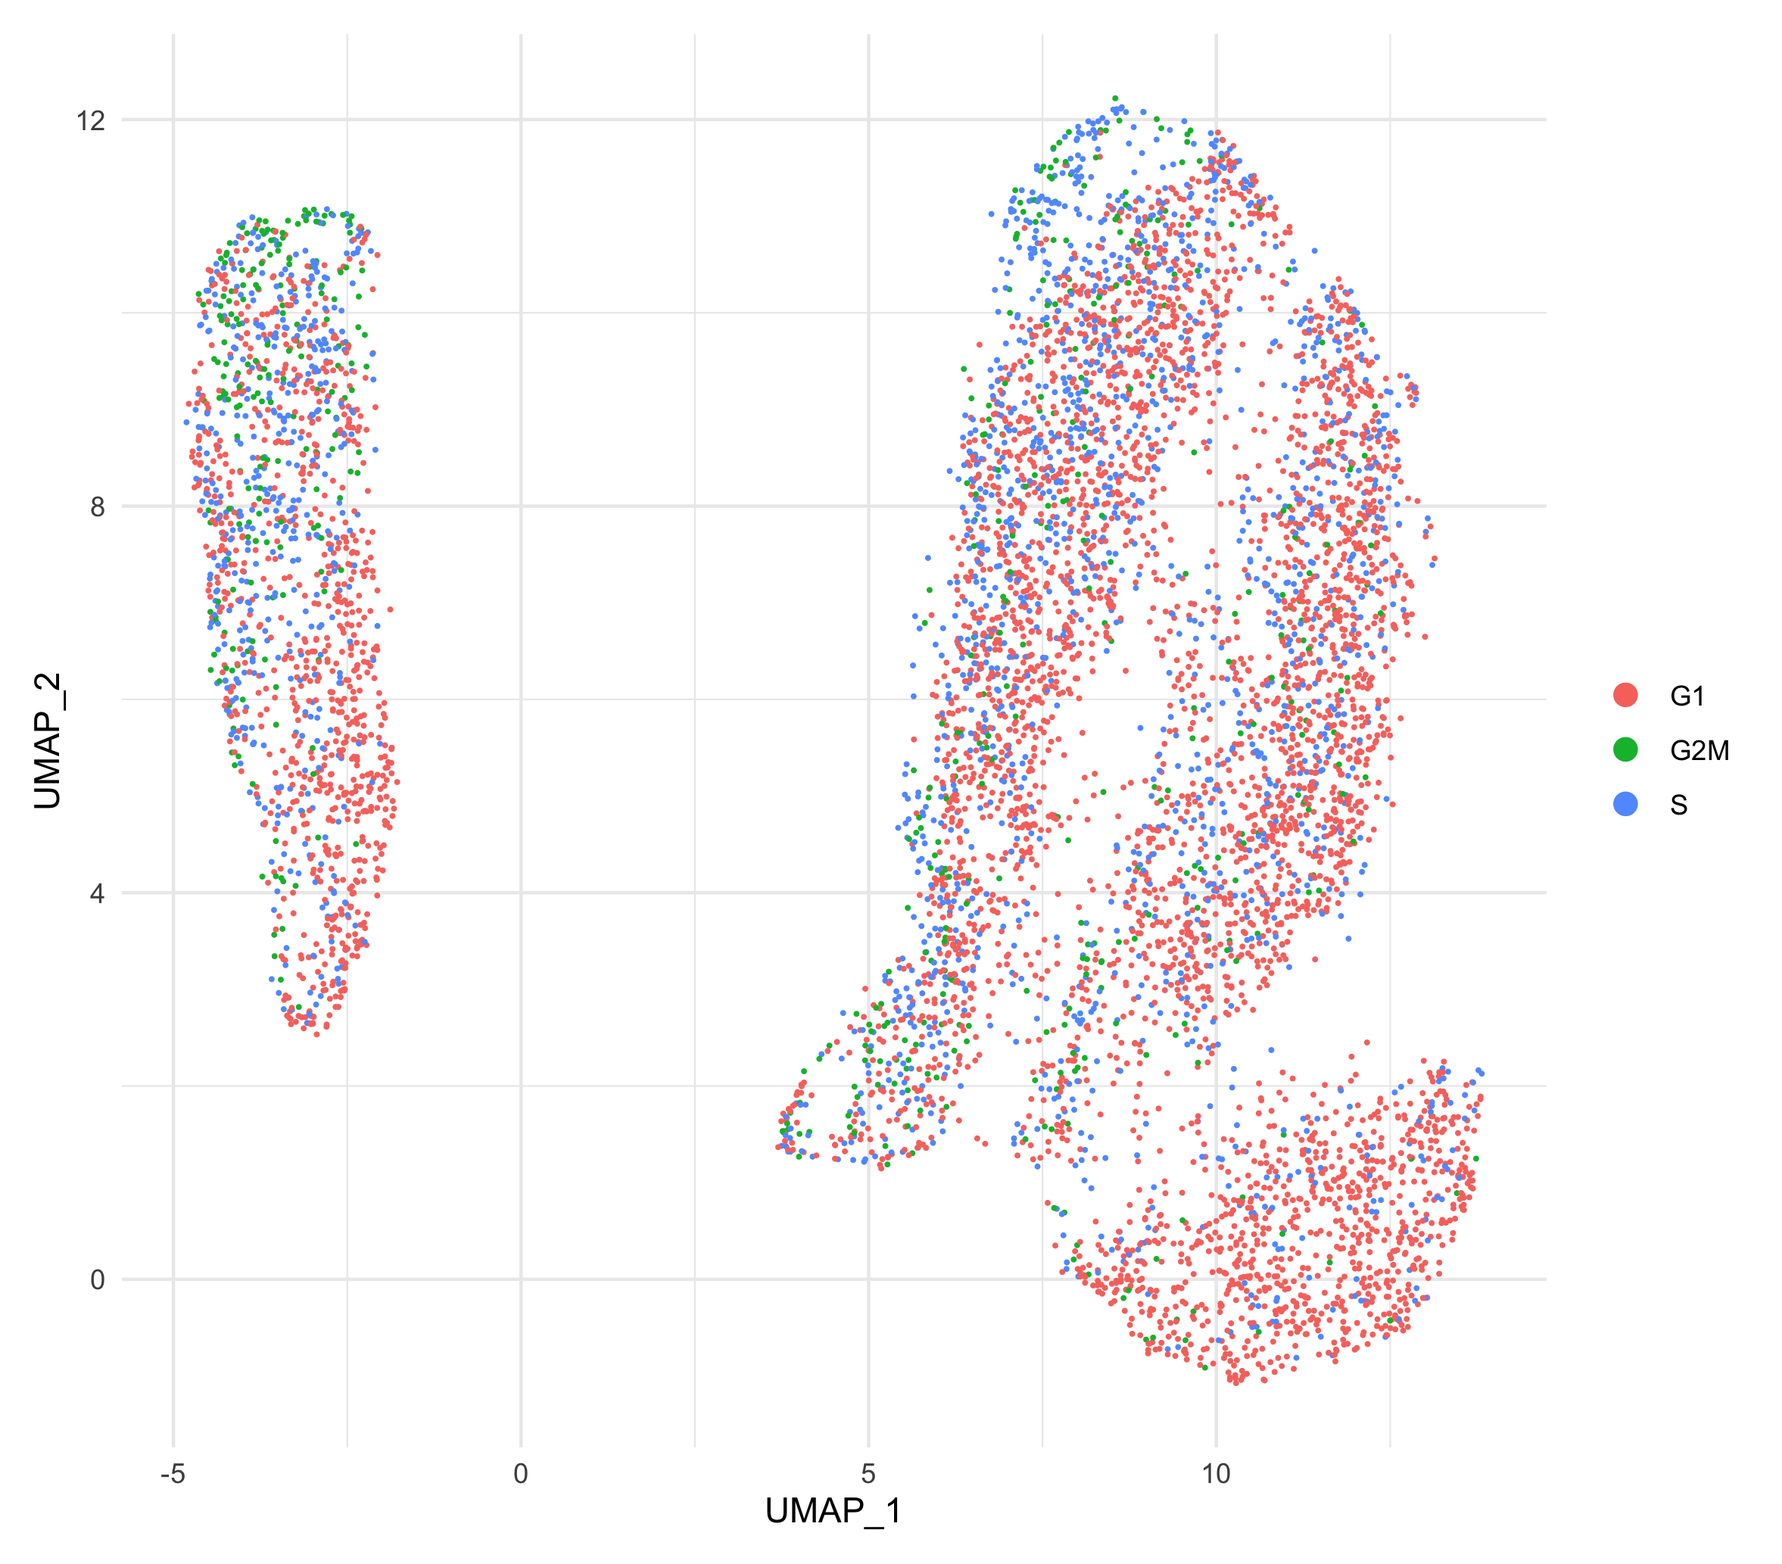
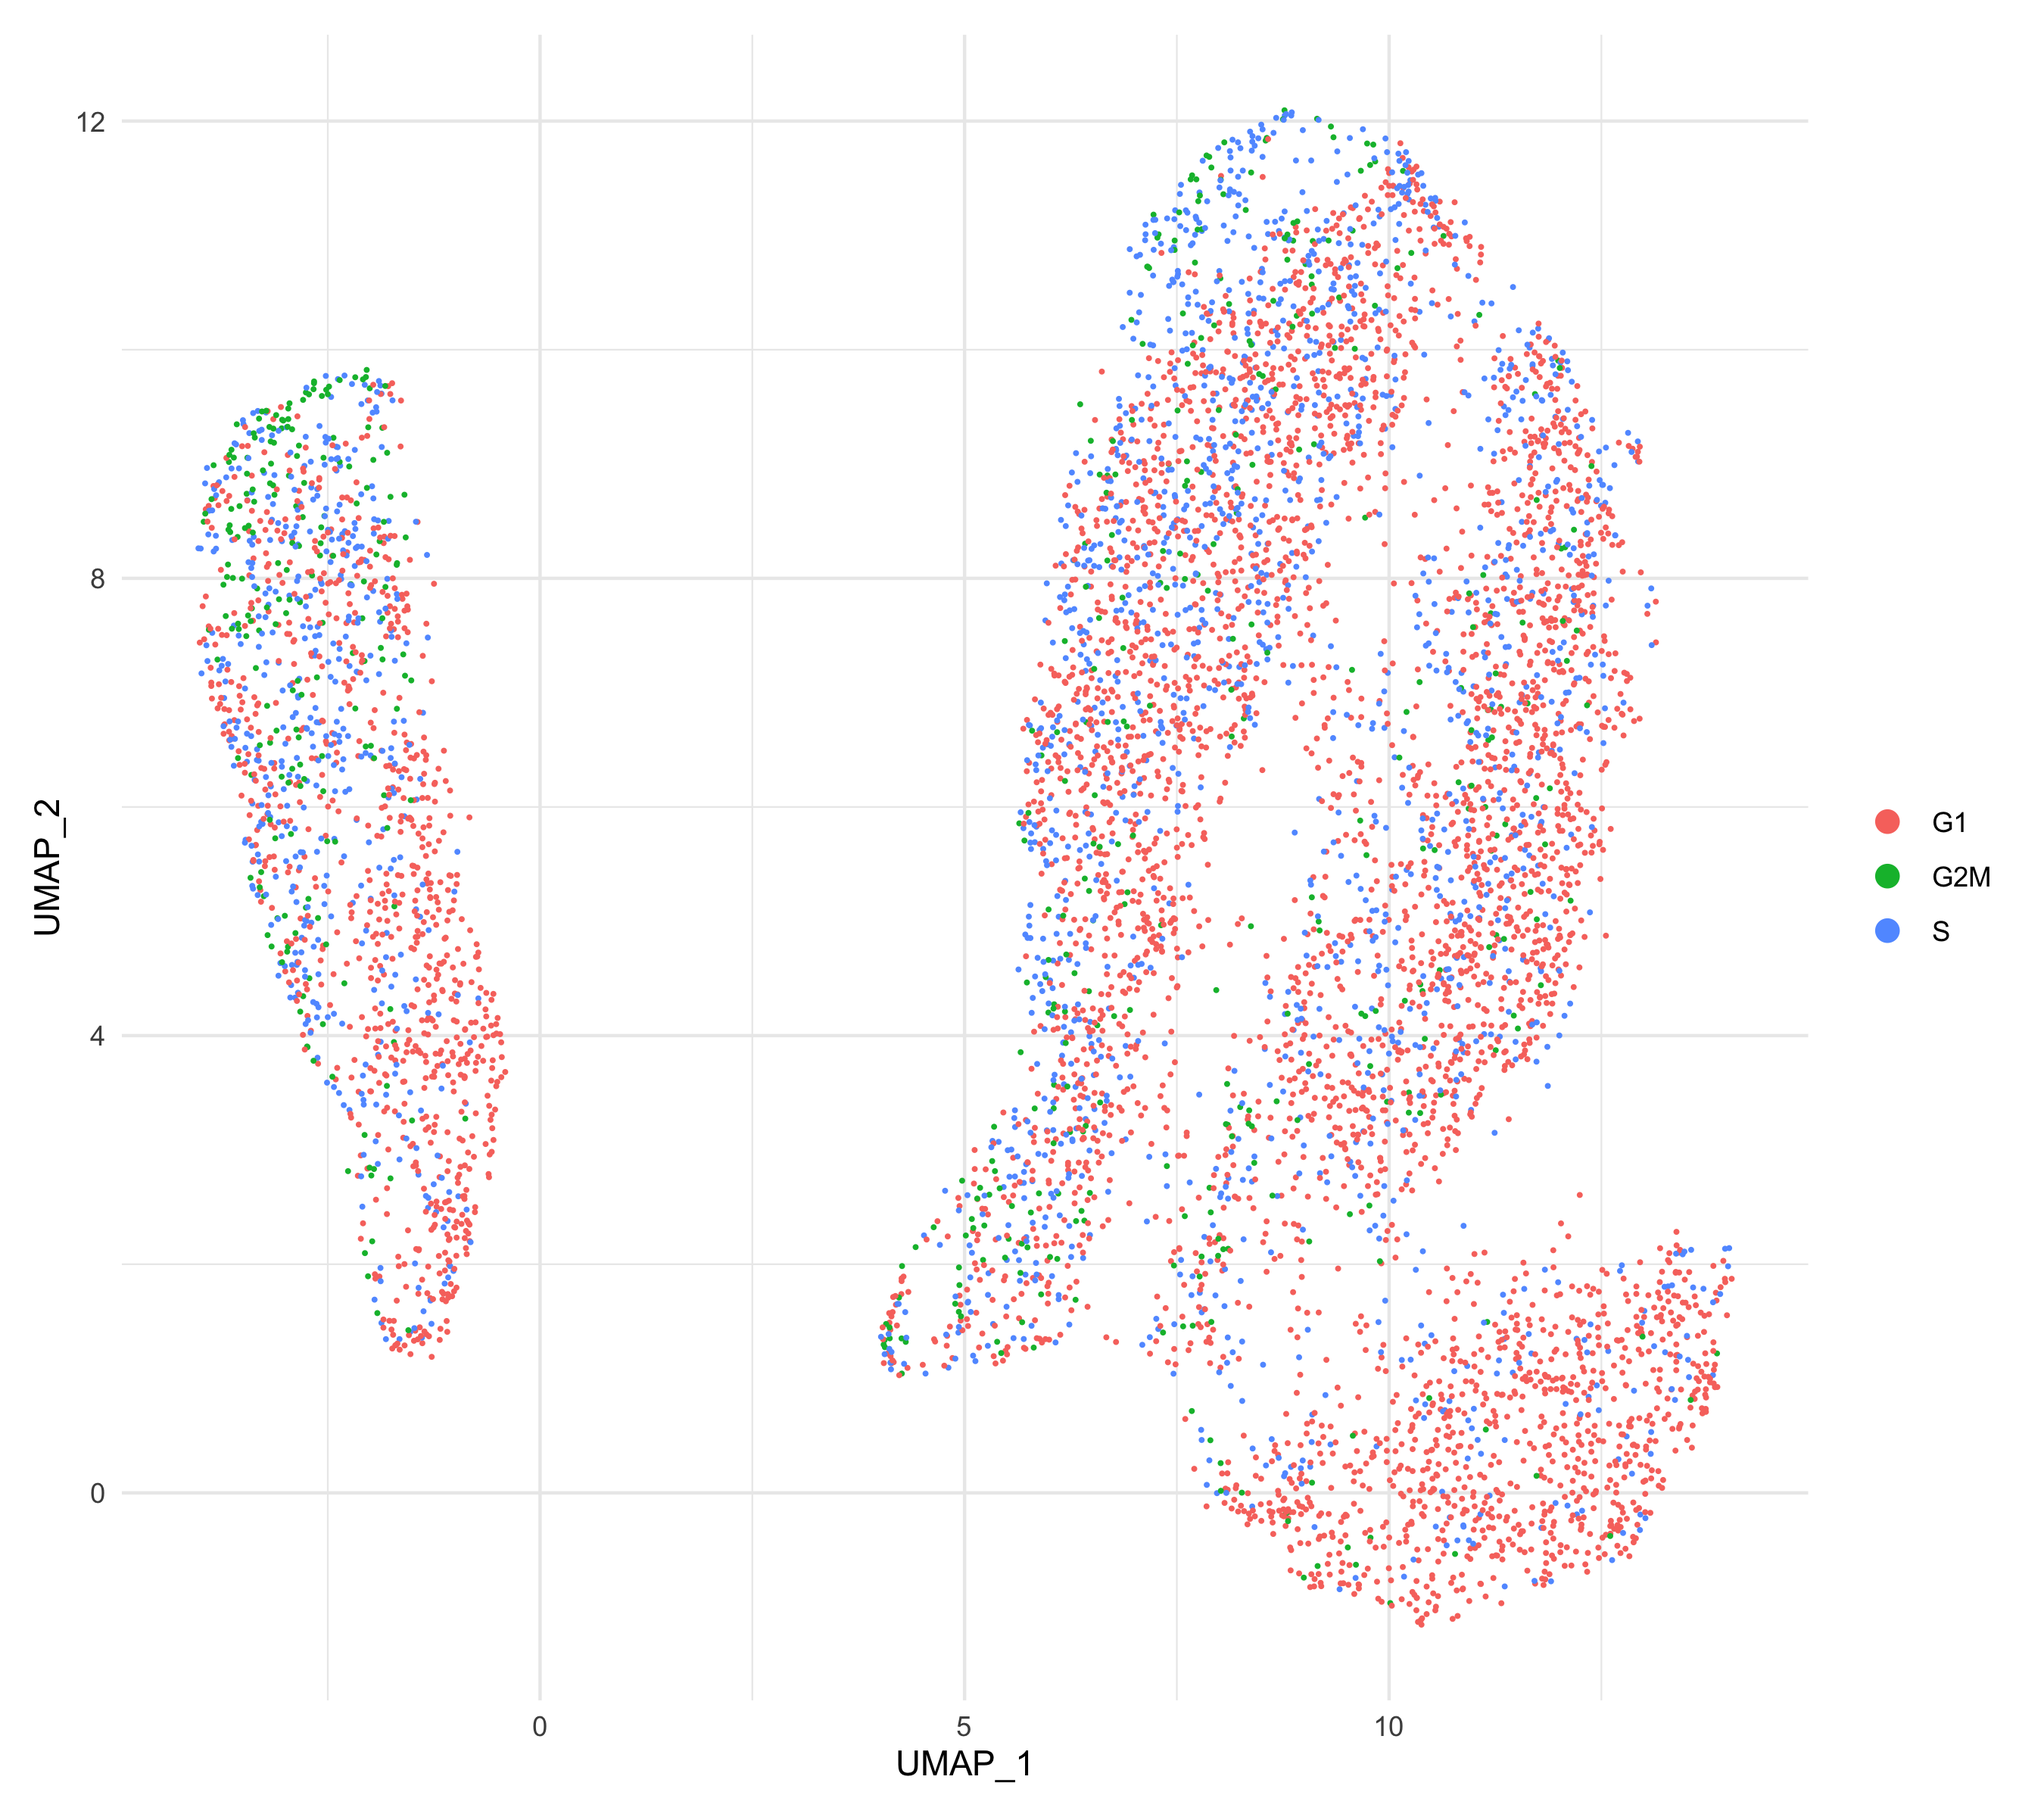
Beyondcell 1.1: uwot UMAP and tutorials' update:
* We have included two new arguments in `bcUMAP`: `method` and `return.model`.
`method` can be `"umap-learn"` or `"uwot"` (default). `return.model` is a logical
 argument that determines whether the function will return the uwot model
 (only valid when `method = "uwot"`).

* The tutorials have been updated: Typos have been corrected, chunks of code now
  specify the UMAP method (`"umap-learn"`) and figures have been redrawn
  (they look the same as the    originals).

diff --git a/tutorial/analysis_workflow/README.md b/tutorial/analysis_workflow/README.md
@@ -107,9 +107,9 @@ computation.
 
 ```r
 # Run the UMAP reduction. 
-bc <- bcUMAP(bc, k.neighbors = 4, res = 0.2)
+bc <- bcUMAP(bc, k.neighbors = 4, res = 0.2, method = "umap-learn")
 # Run the bcUMAP function again, specifying the number of principal components you want to use.
-bc <- bcUMAP(bc, pc = 10, k.neighbors = 4, res = 0.2)
+bc <- bcUMAP(bc, pc = 10, k.neighbors = 4, res = 0.2, method = "umap-learn")
 ```
 
 **Check clustering**\
@@ -124,13 +124,13 @@ recommend checking these sources of variation among others:
  * Batch
 
 ```r
-# Visualize whether cells are clustered based on the number of genes detecter per each cell.
+# Visualize whether the cells are clustered based on the number of genes detected per each cell.
 bcClusters(bc, UMAP = "beyondcell", idents = "nFeature_RNA", factor.col = FALSE)
 ```
 <img src=".img/nFeature_variation.png" width="500">
 
 ```r
-# Visualize whether cells are clustered based on their cell cycle status
+# Visualize whether the cells are clustered based on their cell cycle status.
 bcClusters(bc, UMAP = "beyondcell", idents = "Phase", factor.col = TRUE)
 ```
 <img src=".img/Phase_variation.png" width="500">
@@ -156,11 +156,11 @@ clustering, in order to find the *true* **Therapeutic Clusters** present in your
 sample. 
 
 ```r
-# Recompute UMAP.
-bc <- bcUMAP(bc, pc = 10,  k.neighbors = 20, res = 0.2)
-# Visualize UMAP.
+# Recompute the UMAP.
+bc <- bcUMAP(bc, pc = 10, k.neighbors = 20, res = 0.2, method = "umap-learn")
+# Visualize the UMAP.
 bcClusters(bc, UMAP = "beyondcell", idents = "nFeature_RNA", factor.col = FALSE)
-# Visualize therapeutic clusters.
+# Visualize the therapeutic clusters.
 bcClusters(bc, UMAP = "beyondcell", idents = "bc_clusters_res.0.2")
 ```
 
@@ -215,4 +215,8 @@ susceptible and non-susceptible cells.
 
 > **Note that the SP is not equivalent to the proportion of insensitive cells**
 **to a given drug, although there's a positive correlation between these two**
-**magnitudes. **
+**magnitudes.**
+
+## Support
+Additional information can be found in the package's documentation. If you have 
+any question regarding the use of **Beyondcell**, feel free to submit an [issue](https://gitlab.com/bu_cnio/Beyondcell/issues).

diff --git a/README.md b/README.md
@@ -43,16 +43,8 @@ conda create -n beyondcell
 # Activate the environment.
 conda activate beyondcell
 # Install Beyondcell package and dependencies.
-conda install -c bu_cnio r-beyondcell
-# Install RStudio.
-conda install -c r rstudio
-# Launch RStudio.
-rstudio
+conda install -c bu_cnio r-beyondcell=1.0.0
 ```
-> TIP: Are you having any trouble running `bcUMAP`? Your umap-learn version 
-might not be recognized by R. r-reticulate generates a new environment that can 
-bypass conda's umap-learn installation. To solve this, try erasing the 
-environment created by r-reticulate on your computer.
 
 ## Results
 We have validated Beyondcell in a population of MCF7-AA cells exposed to 500nM 

diff --git a/tutorial/visualization/README.md b/tutorial/visualization/README.md
@@ -151,5 +151,5 @@ bcCellCycle(bc, signatures = "sig_18868")
 
 ## Support
 Additional information can be found in the package's documentation. If you have 
-any question regarding the use of **Beyoncell**, feel free to submit an [issue](https://gitlab.com/bu_cnio/Beyondcell/issues).
+any question regarding the use of **Beyondcell**, feel free to submit an [issue](https://gitlab.com/bu_cnio/Beyondcell/issues).
 
